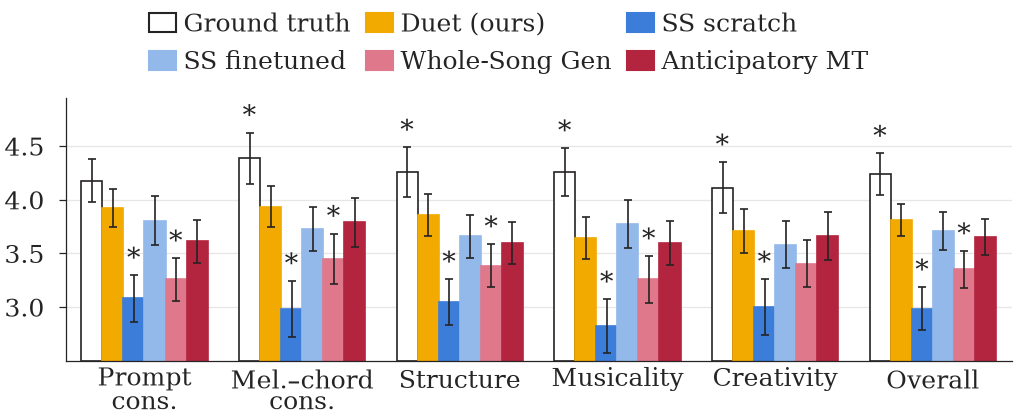
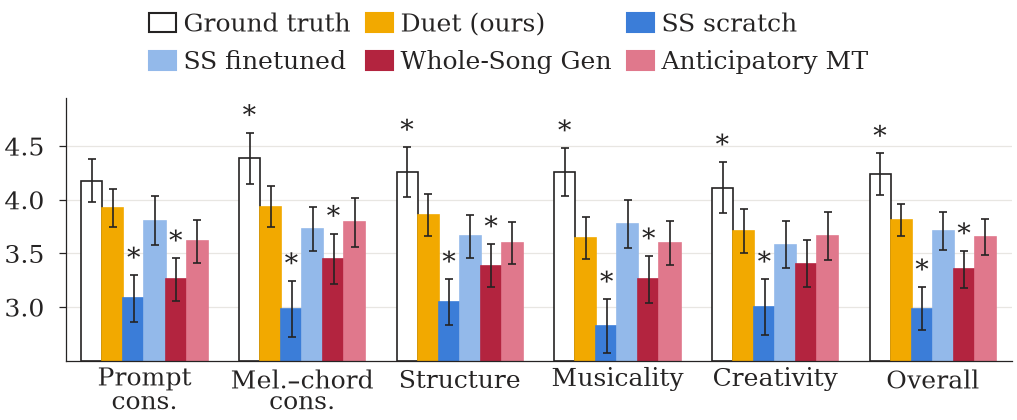
Palette: Whole-Song Gen the darker maroon, AMT the lighter
Claude-Session: https://claude.ai/code/session_012w7PFbJyWP4meVE3CJpfno

diff --git a/midi_yinyang/plot_e1_box.py b/midi_yinyang/plot_e1_box.py
@@ -152,8 +152,8 @@ SYSTEM_COLOR = {
     'A1':        '#fbdc95',        # lighter still
     'S-scratch': PALETTE['slate'],
     'S1':        '#93b9ea',        # lighter slate
-    'WSfv4':     '#e0788c',        # lighter maroon
-    'AMT':       PALETTE['maroon'],
+    'WSfv4':     PALETTE['maroon'],
+    'AMT':       '#e0788c',        # lighter maroon
 }
 FAMILY_COLOR = {
     'Ours':                PALETTE['gold'],
